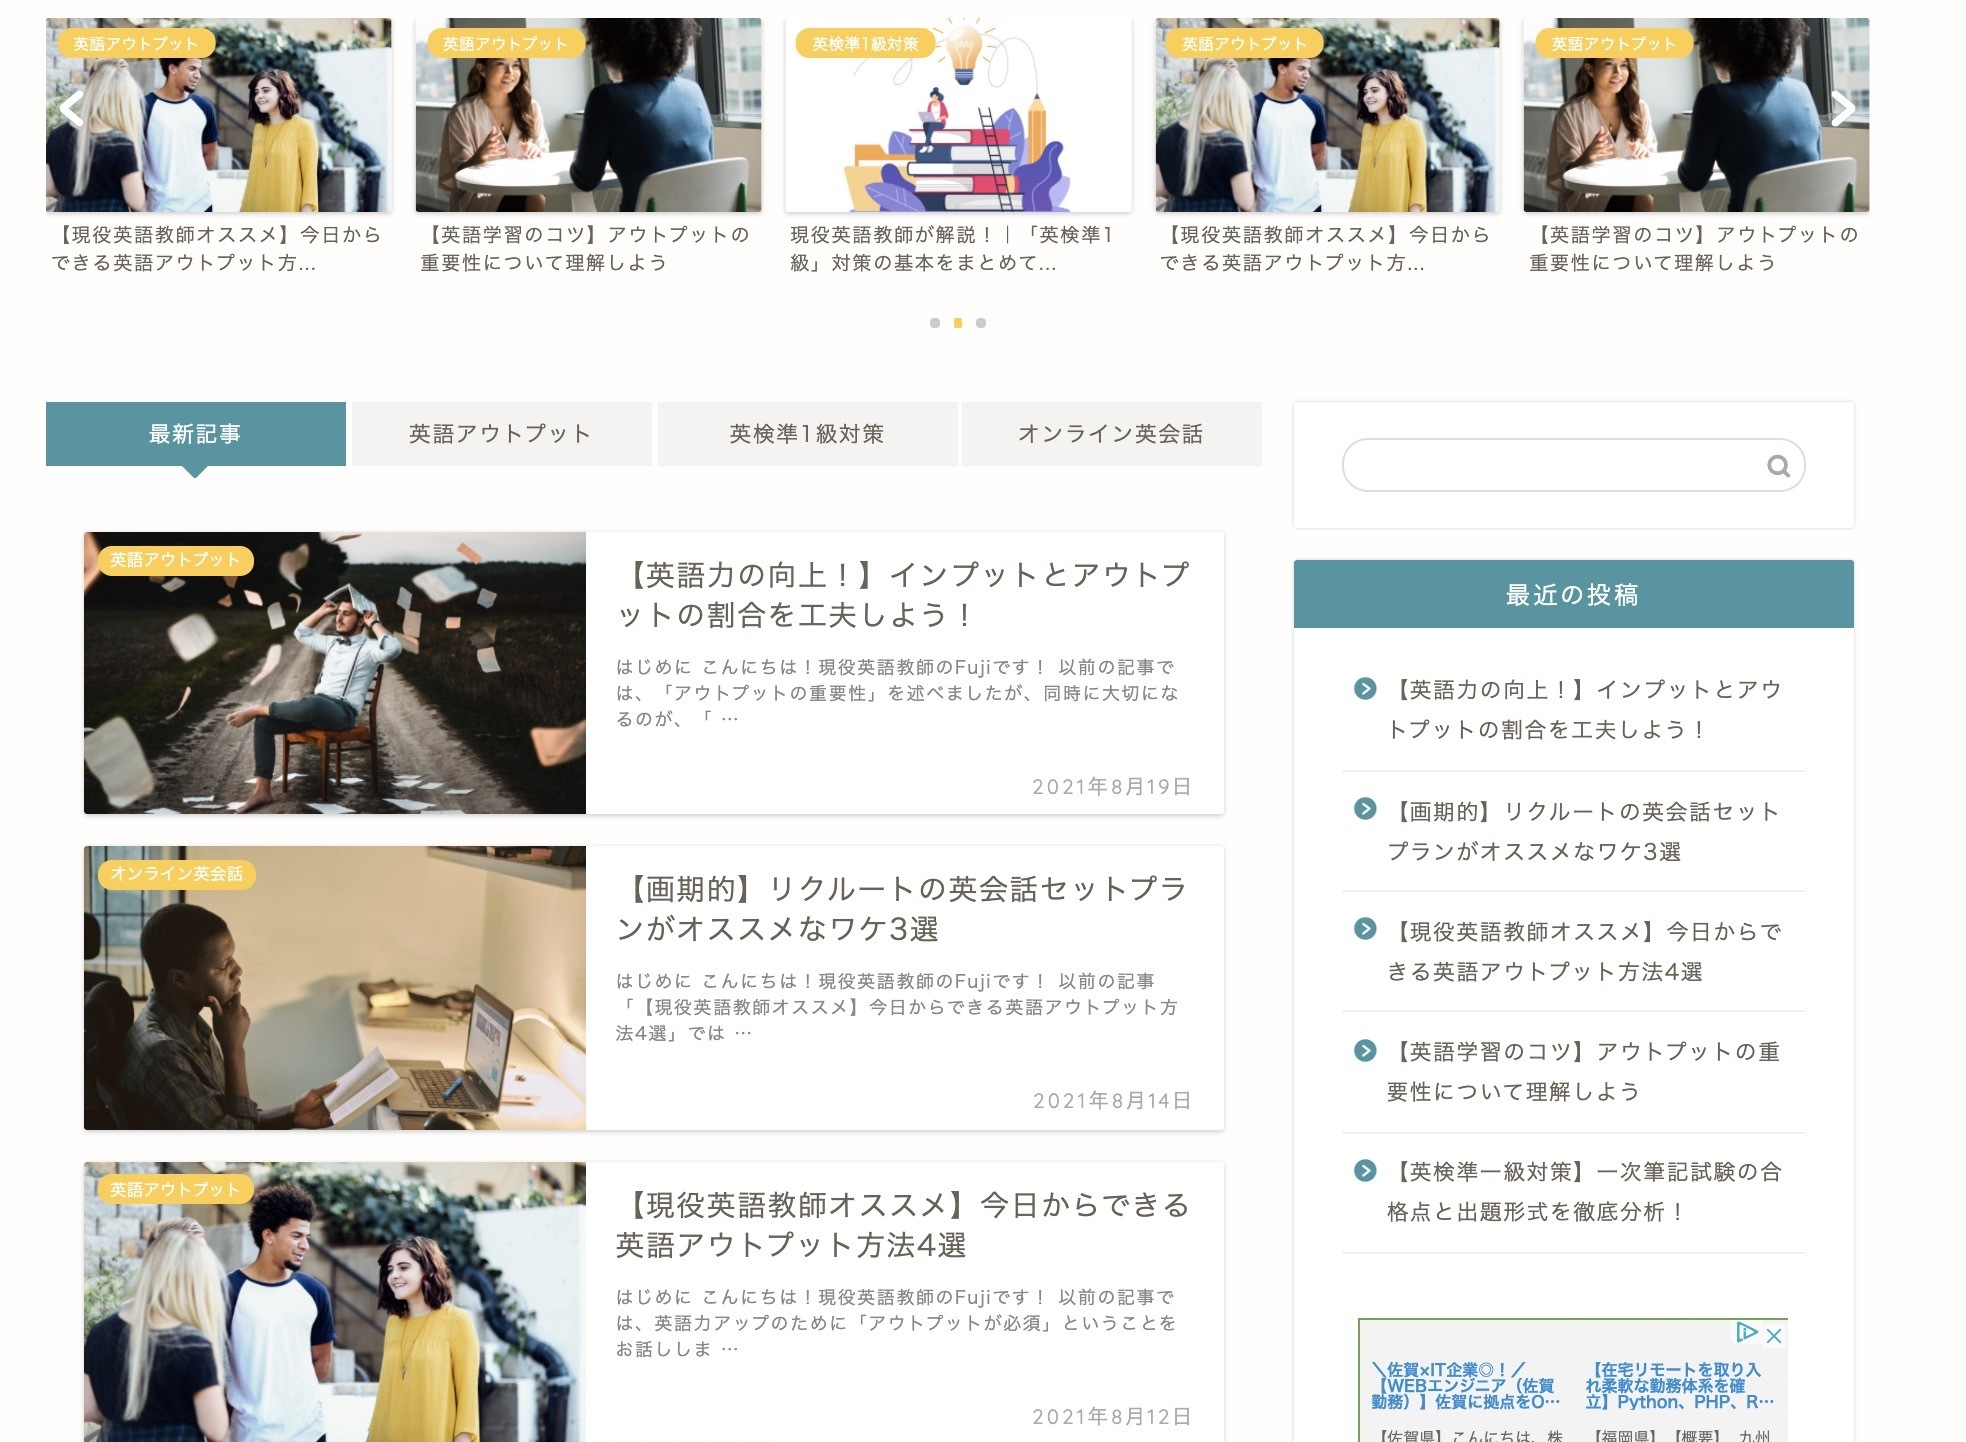
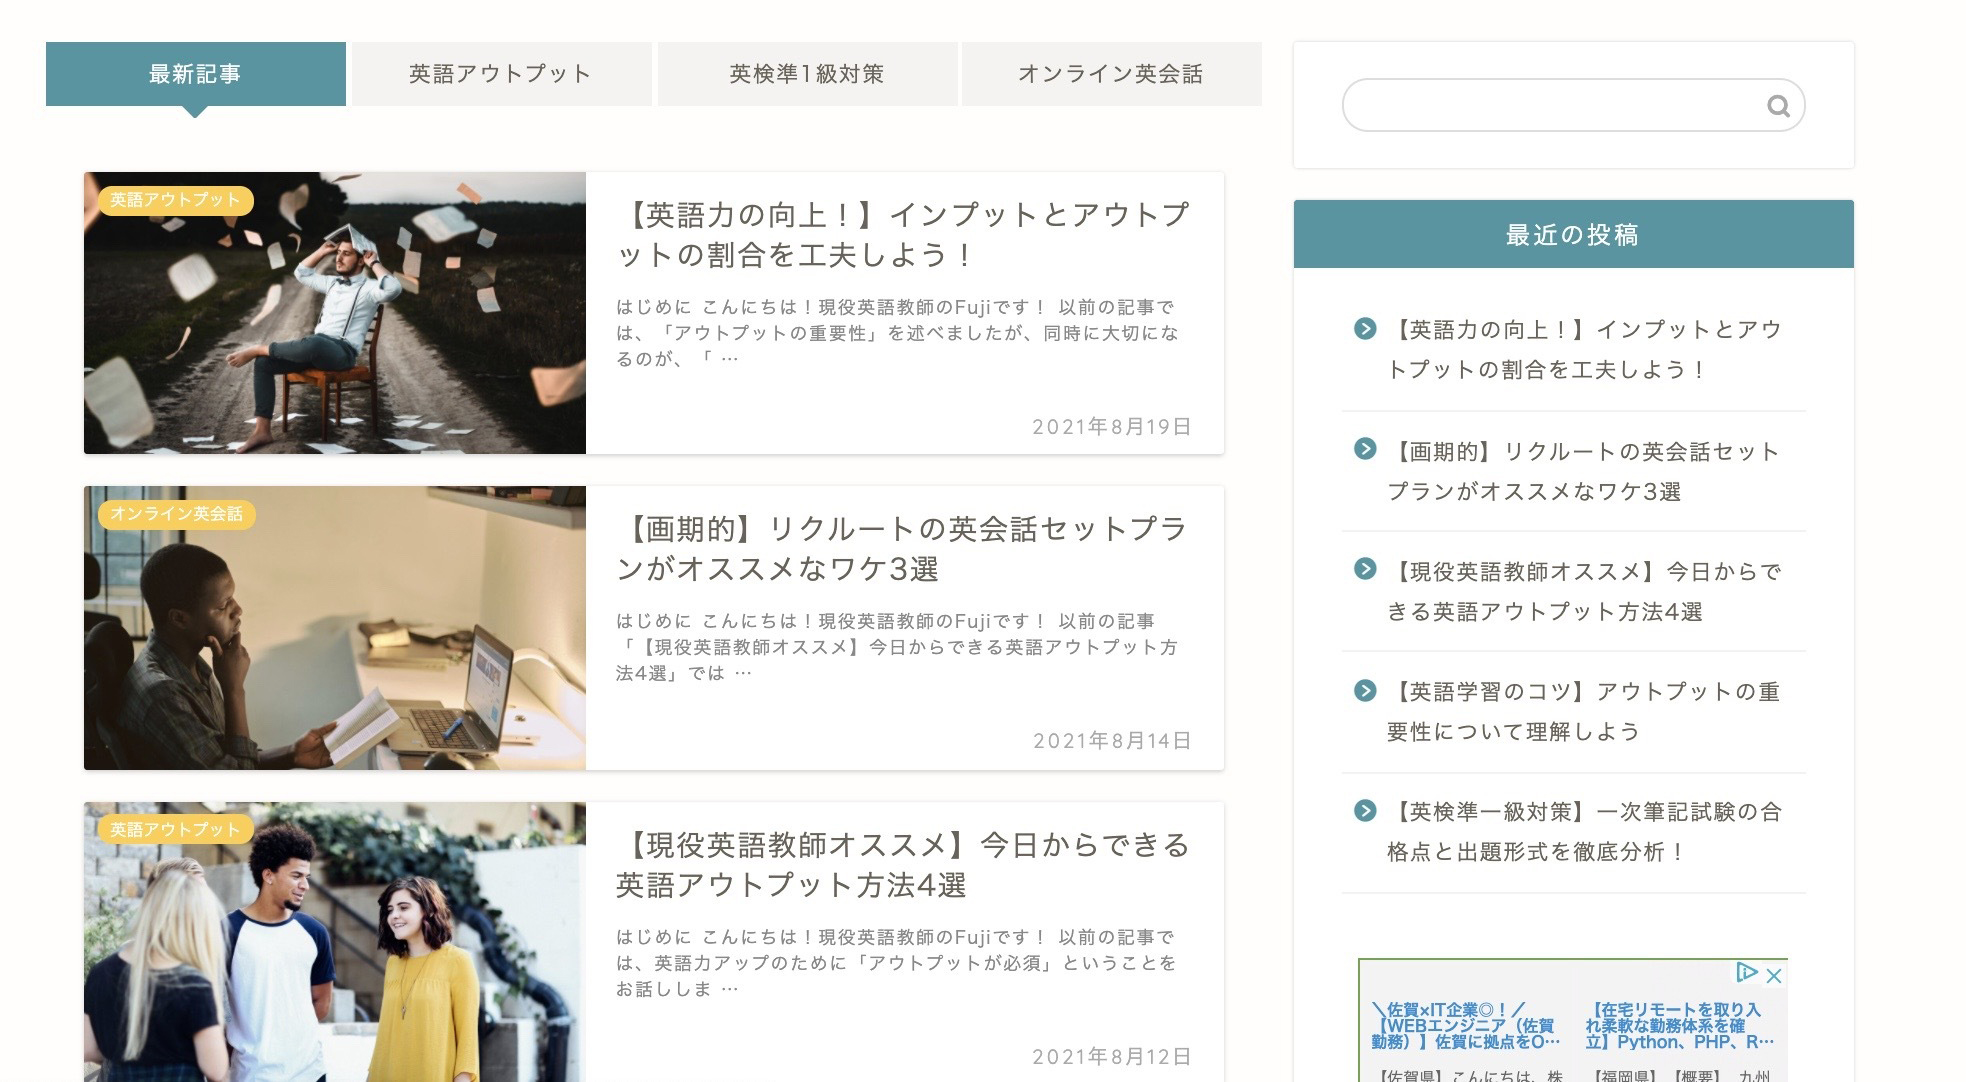
workのpaddingなど

diff --git a/css/style.css b/css/style.css
@@ -3,6 +3,10 @@
 	padding:0;
 }
 
+body {
+  margin: 0 16px;
+}
+
 header {
 }
 
@@ -112,8 +116,14 @@ header h1 {
 .work_box img {
   width: 300px;
   height: auto;
+  margin: 0 0 16px 0;
 }
 
 .work_text {
   text-align: center;
+  margin: 0 0 16px 0;
+}
+
+.work_text .button{
+  margin: 24px 0 0 0;
 }
